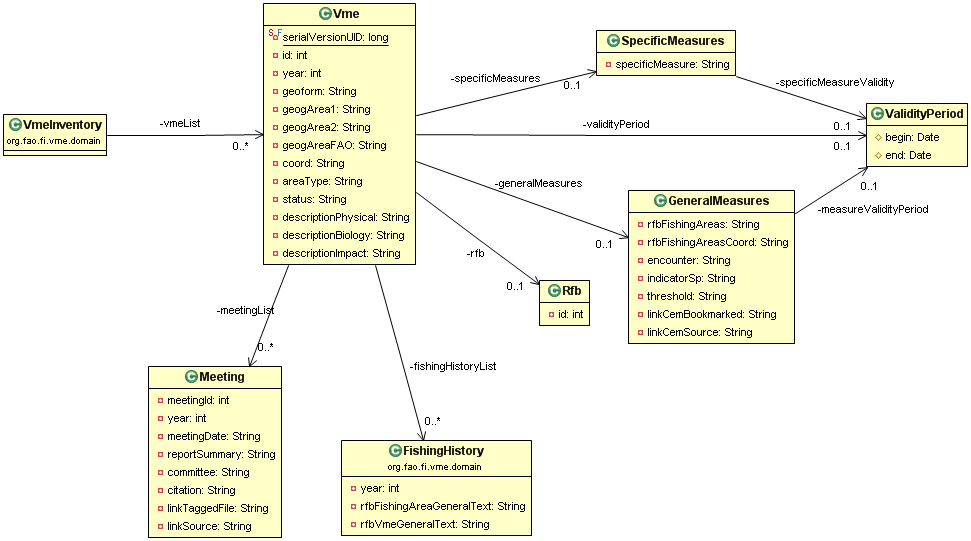
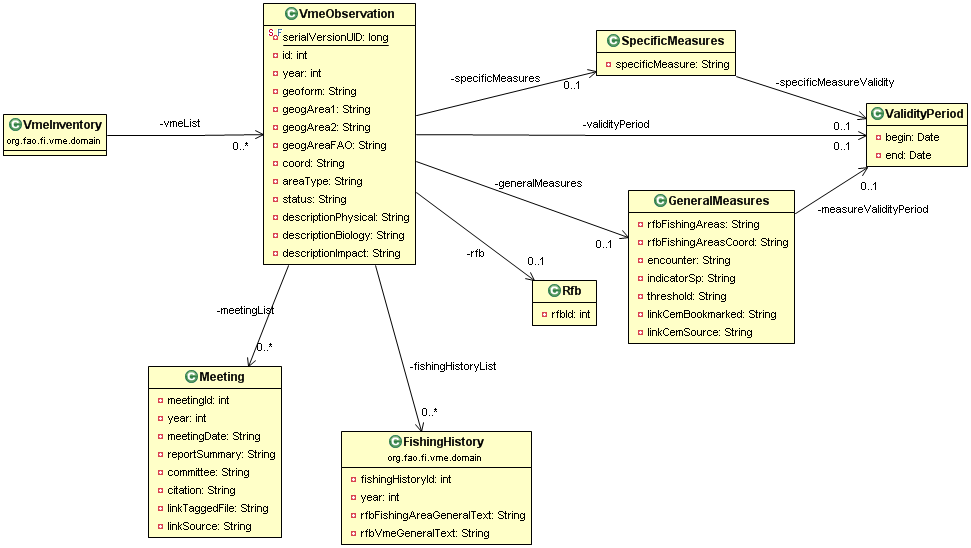
Got the first VME object linked. Added the MS-Access import.

diff --git a/vme-service/src/main/java/org/fao/fi/vme/dao/access/VmeAccessDbImport.java b/vme-service/src/main/java/org/fao/fi/vme/dao/access/VmeAccessDbImport.java
@@ -1,0 +1,47 @@
+package org.fao.fi.vme.dao.access;
+
+import java.sql.Connection;
+import java.sql.DriverManager;
+import java.sql.ResultSet;
+import java.sql.SQLException;
+import java.sql.Statement;
+
+public class VmeAccessDbImport {
+
+	void importAccessDB() {
+		Connection connection = getConnection();
+		Statement stmt = null;
+		ResultSet rs = null;
+
+		// SQL query command
+		String SQL = "SELECT * FROM VME ";
+		try {
+			stmt = connection.createStatement();
+			rs = stmt.executeQuery(SQL);
+			while (rs.next()) {
+
+				System.out.println(rs.getString("VME_ID") + " : " + rs.getString("RFB_ID") + " : "
+						+ rs.getString("Year_ID"));
+			}
+		} catch (SQLException e) {
+			throw new VmeDaoException(e);
+		}
+	}
+
+	Connection getConnection() {
+		Connection connection = null;
+		try {
+			Class.forName("sun.jdbc.odbc.JdbcOdbcDriver");
+			String url = "jdbc:odbc:Driver={Microsoft Access Driver "
+					+ "(*.mdb, *.accdb)};DBQ=C:\\Database\\VME_DBTest-FC.accdb";
+			System.out.println("Connected!");
+			connection = DriverManager.getConnection(url);
+		} catch (SQLException e) {
+			throw new VmeDaoException(e);
+		} catch (ClassNotFoundException e) {
+			throw new VmeDaoException(e);
+		}
+		return connection;
+	}
+
+}

diff --git a/vme-domain/src/main/java/org/fao/fi/vme/domain/VmeObservation.java b/vme-domain/src/main/java/org/fao/fi/vme/domain/VmeObservation.java
@@ -3,8 +3,10 @@ package org.fao.fi.vme.domain;
 import java.io.Serializable;
 import java.util.List;
 
+import javax.persistence.Embedded;
 import javax.persistence.Entity;
 import javax.persistence.GeneratedValue;
+import javax.persistence.GenerationType;
 import javax.persistence.Id;
 import javax.persistence.OneToMany;
 
@@ -14,7 +16,7 @@ import javax.persistence.OneToMany;
  * 
  */
 @Entity
-public class Vme implements Serializable {
+public class VmeObservation implements Serializable {
 
 	/**
 	 * 
@@ -22,12 +24,13 @@ public class Vme implements Serializable {
 	private static final long serialVersionUID = 5670932762918600107L;
 
 	@Id
-	@GeneratedValue
+	@GeneratedValue(strategy = GenerationType.IDENTITY)
 	private int id;
 	private int year;
 	private Rfb rfb;
-
+	@Embedded
 	private GeneralMeasures generalMeasures;
+	@Embedded
 	private SpecificMeasures specificMeasures;
 
 	@OneToMany
@@ -35,6 +38,7 @@ public class Vme implements Serializable {
 
 	@OneToMany
 	private List<Meeting> meetingList;
+	@Embedded
 	private ValidityPeriod validityPeriod;
 	private String geoform;
 	private String geogArea1;

diff --git a/vme-service/src/test/java/org/fao/fi/vme/dao/JPATest.java b/vme-service/src/test/java/org/fao/fi/vme/dao/JPATest.java
@@ -3,7 +3,7 @@ package org.fao.fi.vme.dao;
 import javax.inject.Inject;
 import javax.persistence.EntityManager;
 
-import org.fao.fi.vme.domain.Vme;
+import org.fao.fi.vme.domain.VmeObservation;
 import org.jglue.cdiunit.CdiRunner;
 import org.junit.Test;
 import org.junit.runner.RunWith;
@@ -19,13 +19,13 @@ public class JPATest {
 
 	@Test
 	public void roundTrip() {
-		Vme created = new Vme();
+		VmeObservation created = new VmeObservation();
 		String status = "go";
 		created.setStatus(status);
 
 		store(created);
 
-		Vme loaded = lookup(1, Vme.class);
+		VmeObservation loaded = lookup(1, VmeObservation.class);
 
 		assertNotNull(loaded);
 

diff --git a/vme-domain/src/main/java/org/fao/fi/vme/domain/ValidityPeriod.java b/vme-domain/src/main/java/org/fao/fi/vme/domain/ValidityPeriod.java
@@ -3,11 +3,31 @@ package org.fao.fi.vme.domain;
 import java.util.Date;
 
 import javax.persistence.Embeddable;
+import javax.persistence.Temporal;
+import javax.persistence.TemporalType;
 
 @Embeddable
 public class ValidityPeriod {
 
-	protected Date begin;
-	protected Date end;
+	@Temporal(TemporalType.DATE)
+	private Date begin;
+	@Temporal(TemporalType.DATE)
+	private Date end;
+
+	public Date getBegin() {
+		return begin;
+	}
+
+	public void setBegin(Date begin) {
+		this.begin = begin;
+	}
+
+	public Date getEnd() {
+		return end;
+	}
+
+	public void setEnd(Date end) {
+		this.end = end;
+	}
 
 }

diff --git a/vme-service/src/test/java/org/fao/fi/vme/dao/VmeDaoTest.java b/vme-service/src/test/java/org/fao/fi/vme/dao/VmeDaoTest.java
@@ -2,7 +2,7 @@ package org.fao.fi.vme.dao;
 
 import javax.inject.Inject;
 
-import org.fao.fi.vme.domain.Vme;
+import org.fao.fi.vme.domain.VmeObservation;
 import org.jglue.cdiunit.CdiRunner;
 import org.junit.Test;
 import org.junit.runner.RunWith;
@@ -19,7 +19,7 @@ public class VmeDaoTest {
 	public void testPersistVme() {
 		assertNotNull(dao);
 
-		Vme vme = new Vme();
+		VmeObservation vme = new VmeObservation();
 		String status = "go";
 		vme.setStatus(status);
 		// dao.persistVme(vme);

diff --git a/vme-domain/src/main/java/org/fao/fi/vme/domain/VmeInventory.java b/vme-domain/src/main/java/org/fao/fi/vme/domain/VmeInventory.java
@@ -4,13 +4,13 @@ import java.util.List;
 
 public class VmeInventory {
 
-	private List<Vme> vmeList;
+	private List<VmeObservation> vmeList;
 
-	public List<Vme> getVmeList() {
+	public List<VmeObservation> getVmeList() {
 		return vmeList;
 	}
 
-	public void setVmeList(List<Vme> vmeList) {
+	public void setVmeList(List<VmeObservation> vmeList) {
 		this.vmeList = vmeList;
 	}
 

diff --git a/vme-domain/src/main/java/org/fao/fi/vme/domain/Rfb.java b/vme-domain/src/main/java/org/fao/fi/vme/domain/Rfb.java
@@ -5,14 +5,14 @@ import javax.persistence.Embeddable;
 @Embeddable
 public class Rfb {
 
-	private int id;
+	private int rfbId;
 
-	public int getId() {
-		return id;
+	public int getRfbId() {
+		return rfbId;
 	}
 
-	public void setId(int id) {
-		this.id = id;
+	public void setRfbId(int rfbId) {
+		this.rfbId = rfbId;
 	}
 
 }

diff --git a/vme-service/src/main/java/org/fao/fi/vme/dao/access/VmeDaoException.java b/vme-service/src/main/java/org/fao/fi/vme/dao/access/VmeDaoException.java
@@ -1,0 +1,14 @@
+package org.fao.fi.vme.dao.access;
+
+public class VmeDaoException extends RuntimeException {
+
+	public VmeDaoException(Exception e) {
+		super(e);
+	}
+
+	/**
+	 * 
+	 */
+	private static final long serialVersionUID = 1359907165992410885L;
+
+}

diff --git a/vme-service/src/main/java/org/fao/fi/vme/dao/VmeDao.java b/vme-service/src/main/java/org/fao/fi/vme/dao/VmeDao.java
@@ -8,7 +8,7 @@ public class VmeDao {
 	@Inject
 	private EntityManager em;
 
-	// public void persistVme(Vme vme) {
+	// public void persistVme(VmeObservation vme) {
 	// EntityTransaction t = em.getTransaction();
 	// t.begin();
 	// em.persist(vme);

diff --git a/vme-service/src/test/java/org/fao/fi/vme/dao/access/VmeAccessDbImportTest.java b/vme-service/src/test/java/org/fao/fi/vme/dao/access/VmeAccessDbImportTest.java
@@ -1,0 +1,14 @@
+package org.fao.fi.vme.dao.access;
+
+import org.junit.Test;
+
+public class VmeAccessDbImportTest {
+
+	VmeAccessDbImport i = new VmeAccessDbImport();
+
+	@Test
+	public void testImportAccessDB() {
+		i.importAccessDB();
+	}
+
+}
